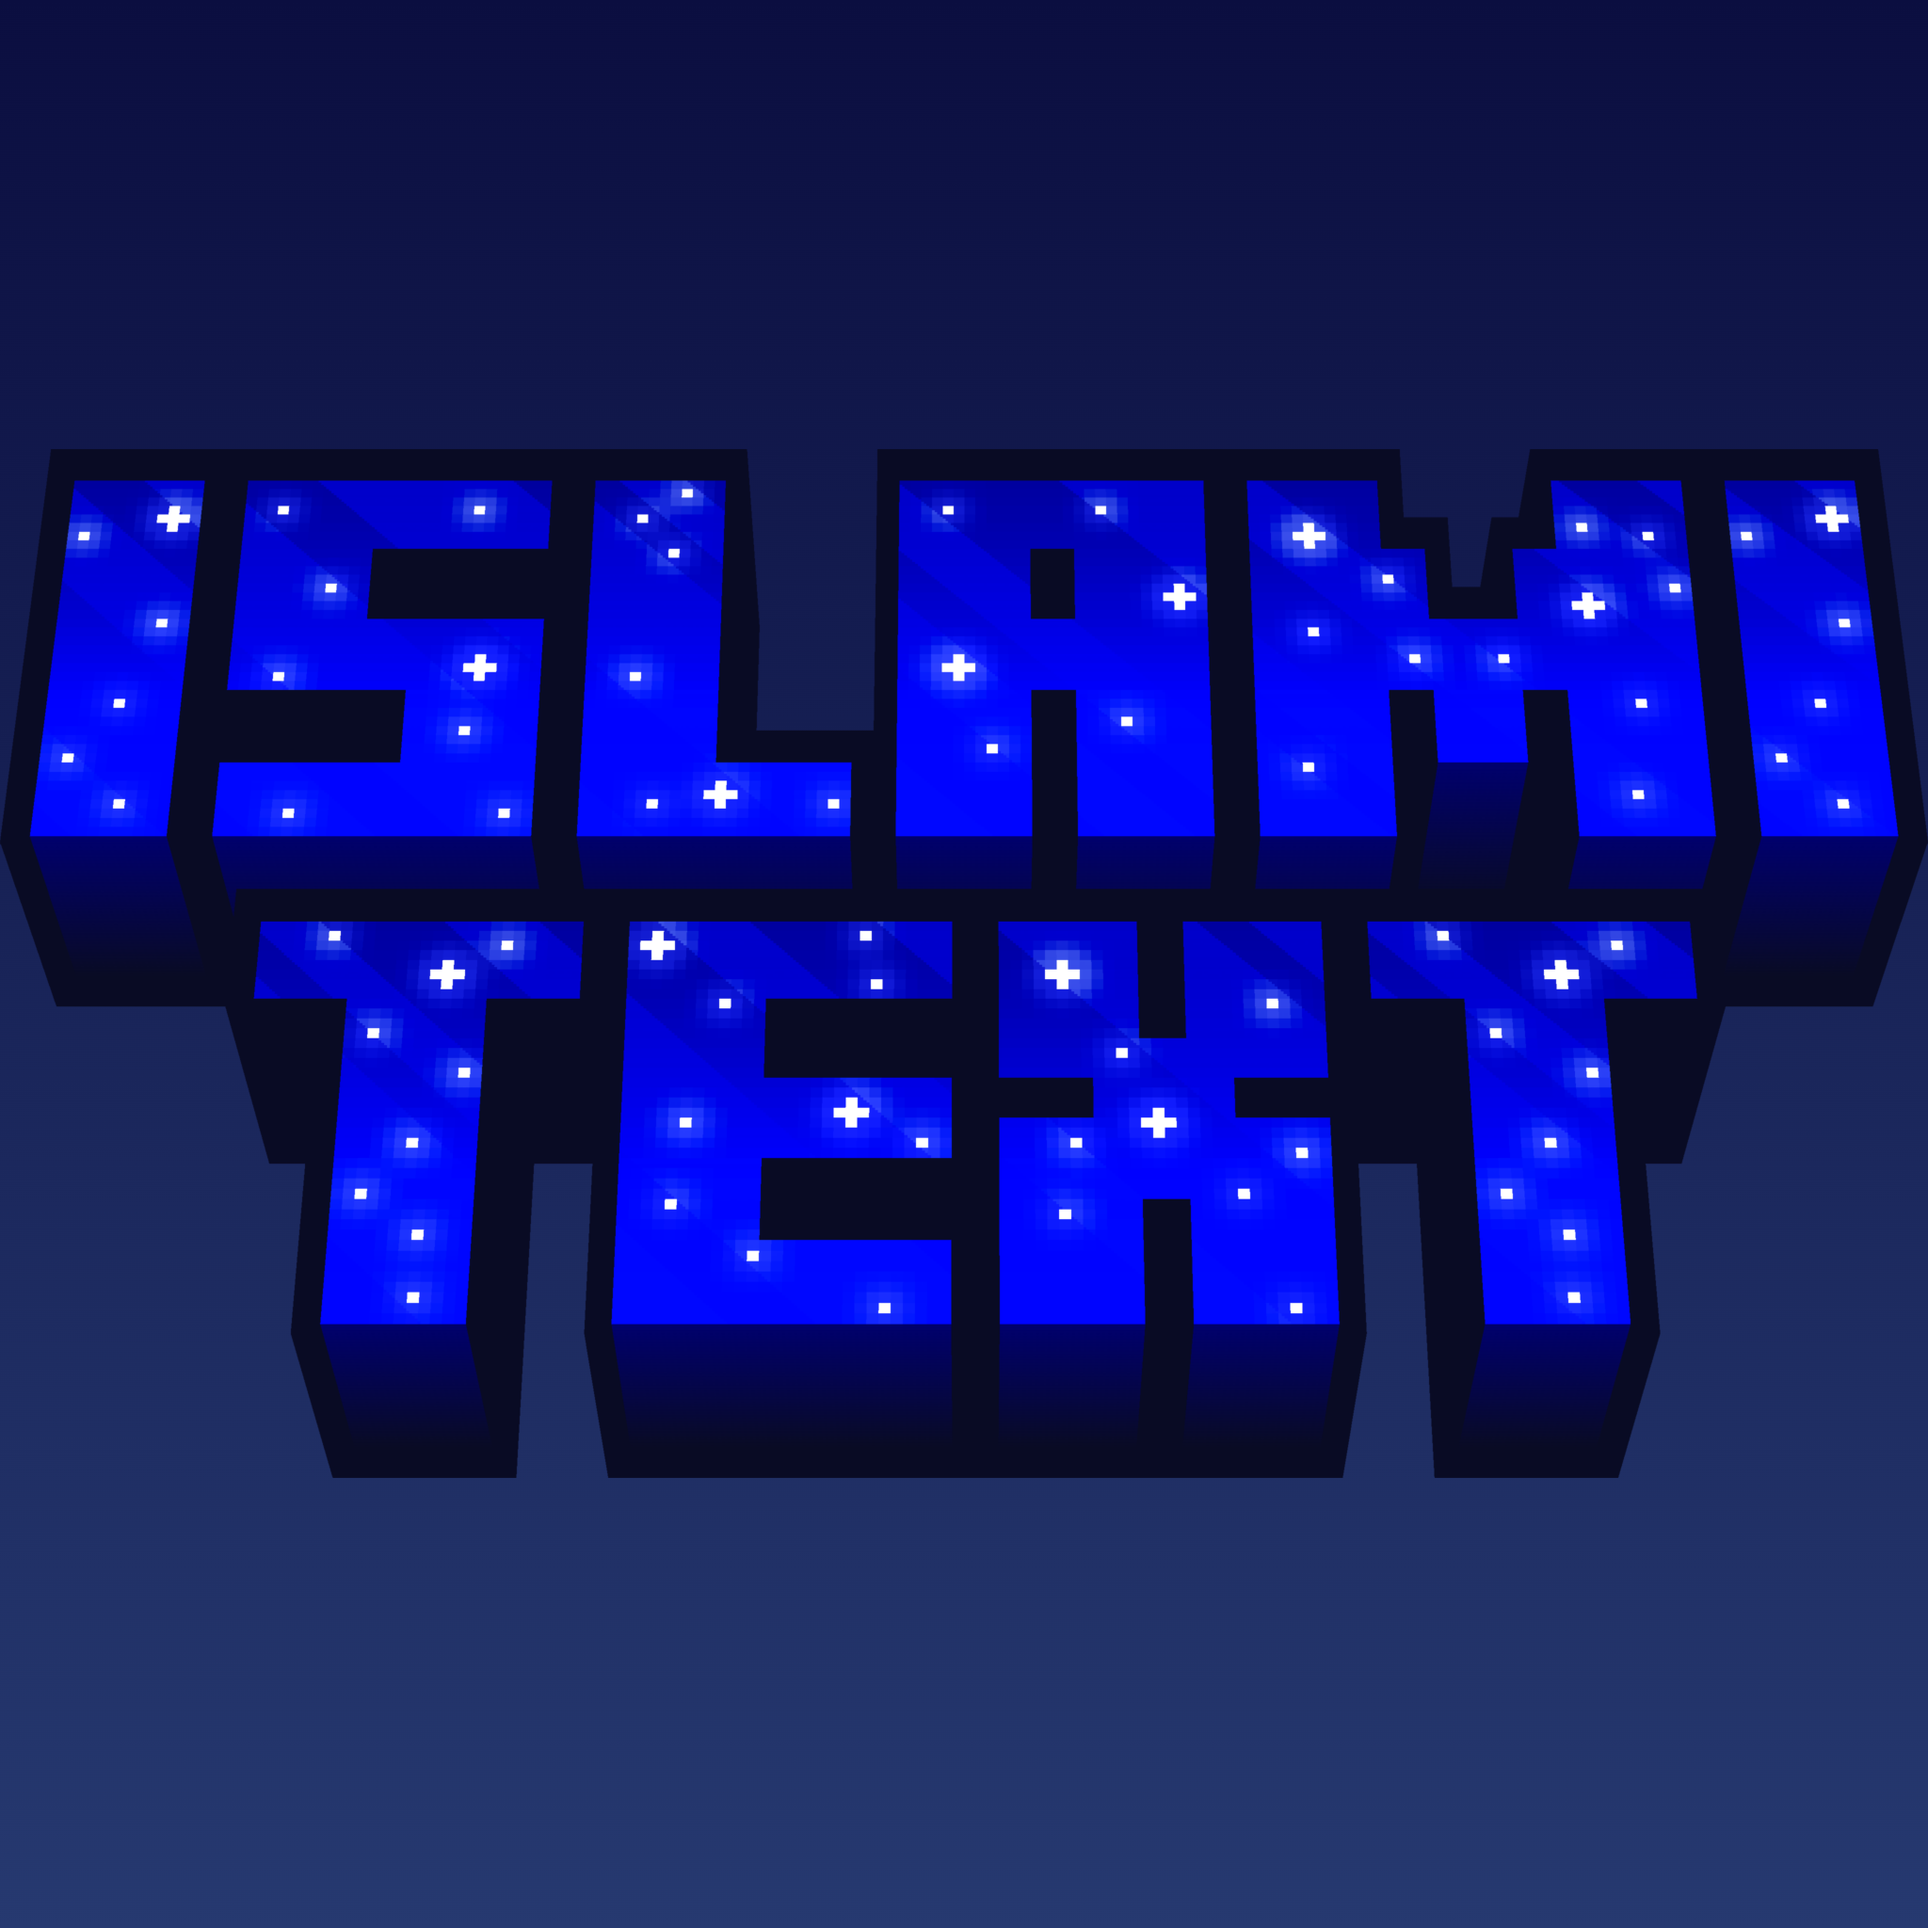
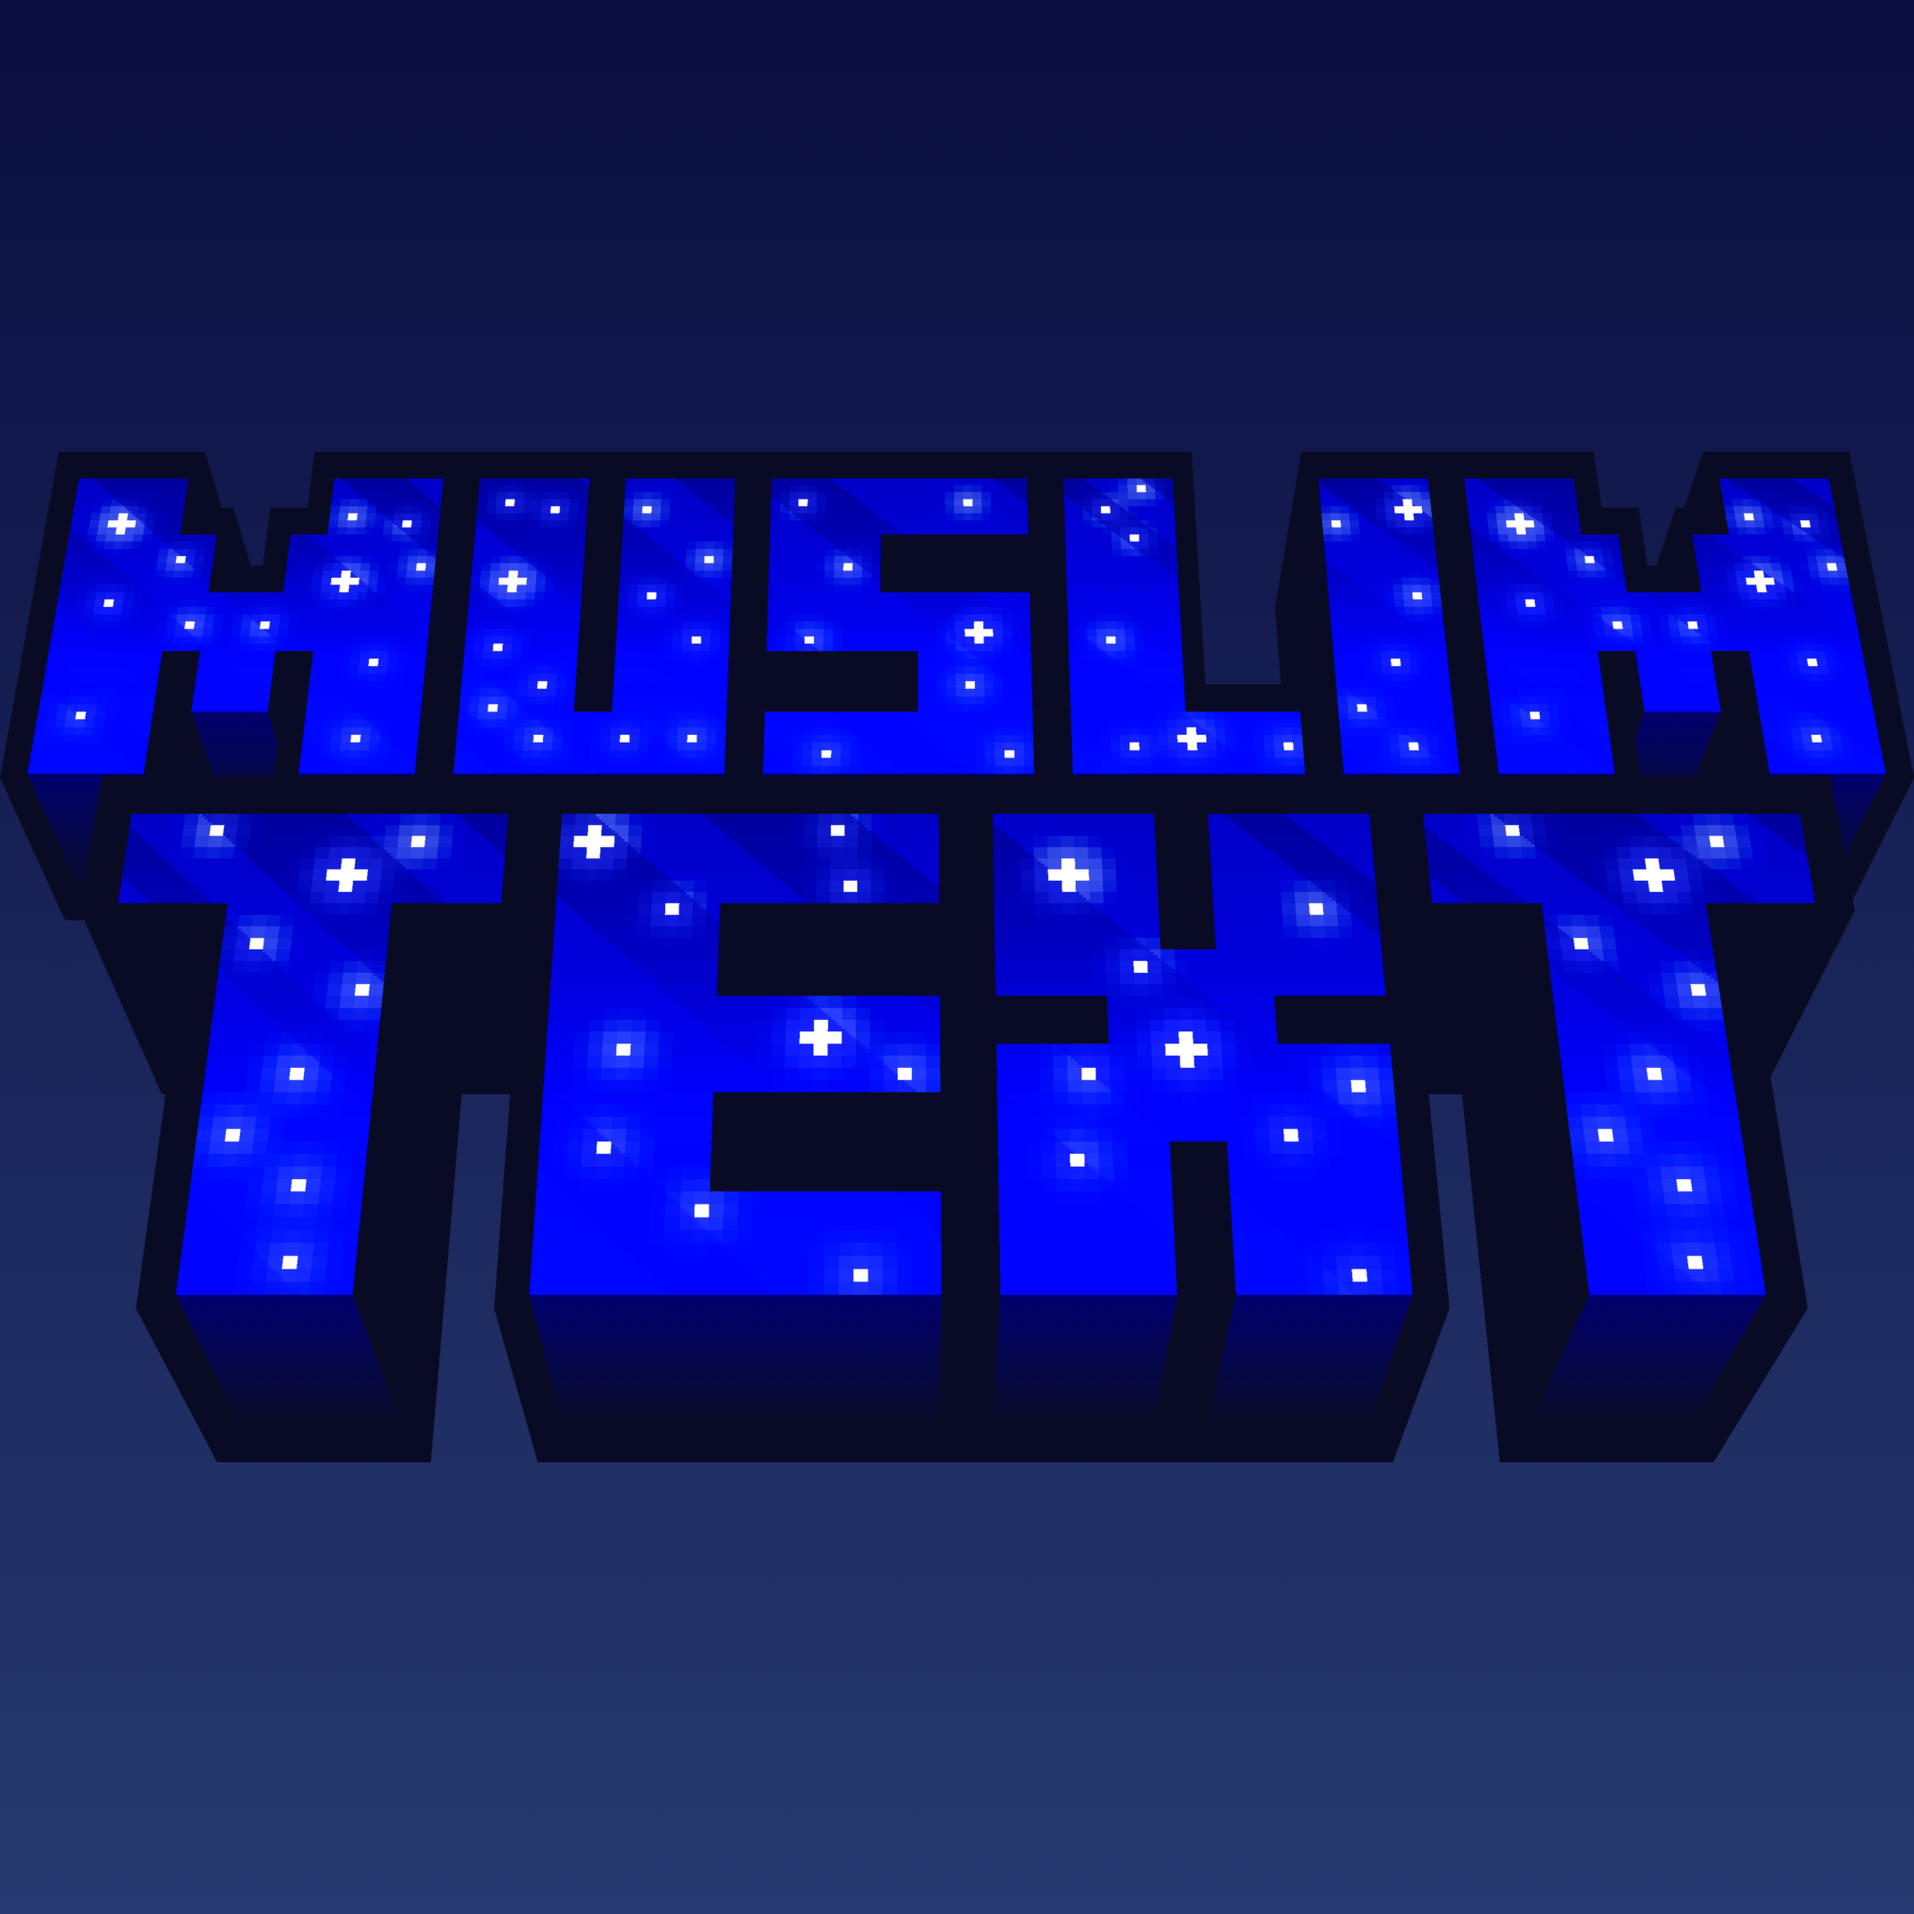
gramma fix and islamicraft to muslimcraft

diff --git a/README.md b/README.md
@@ -13,7 +13,7 @@ End Poem (Not really a poem anymore) can be read [here](https://github.com/fried
 Make an [issue](https://github.com/friedegg796/Muslimtext/issues), I'll check it inshaAllah.
 
 ### Why?
-Although it's already included in Islamicraft, this saves space for people who don't have enough (Islamicraft IS a beefy resource pack) and ensures atleast SOMETHING survives if (and may Allah not have this happen—say Ameen!) the pack is to be deleted.
+Although it's already included in Muslimcraft, this saves space for people who don't have enough (Muslimcraft IS a beefy resource pack) and ensures atleast SOMETHING survives if (and may Allah not have this happen—say Ameen!) the pack is to be deleted.
 
 ### No I mean in general
 Free good deeds obviously! It allows me to spread reminders via Minecraft and allows you to get reminders via Minecraft!
